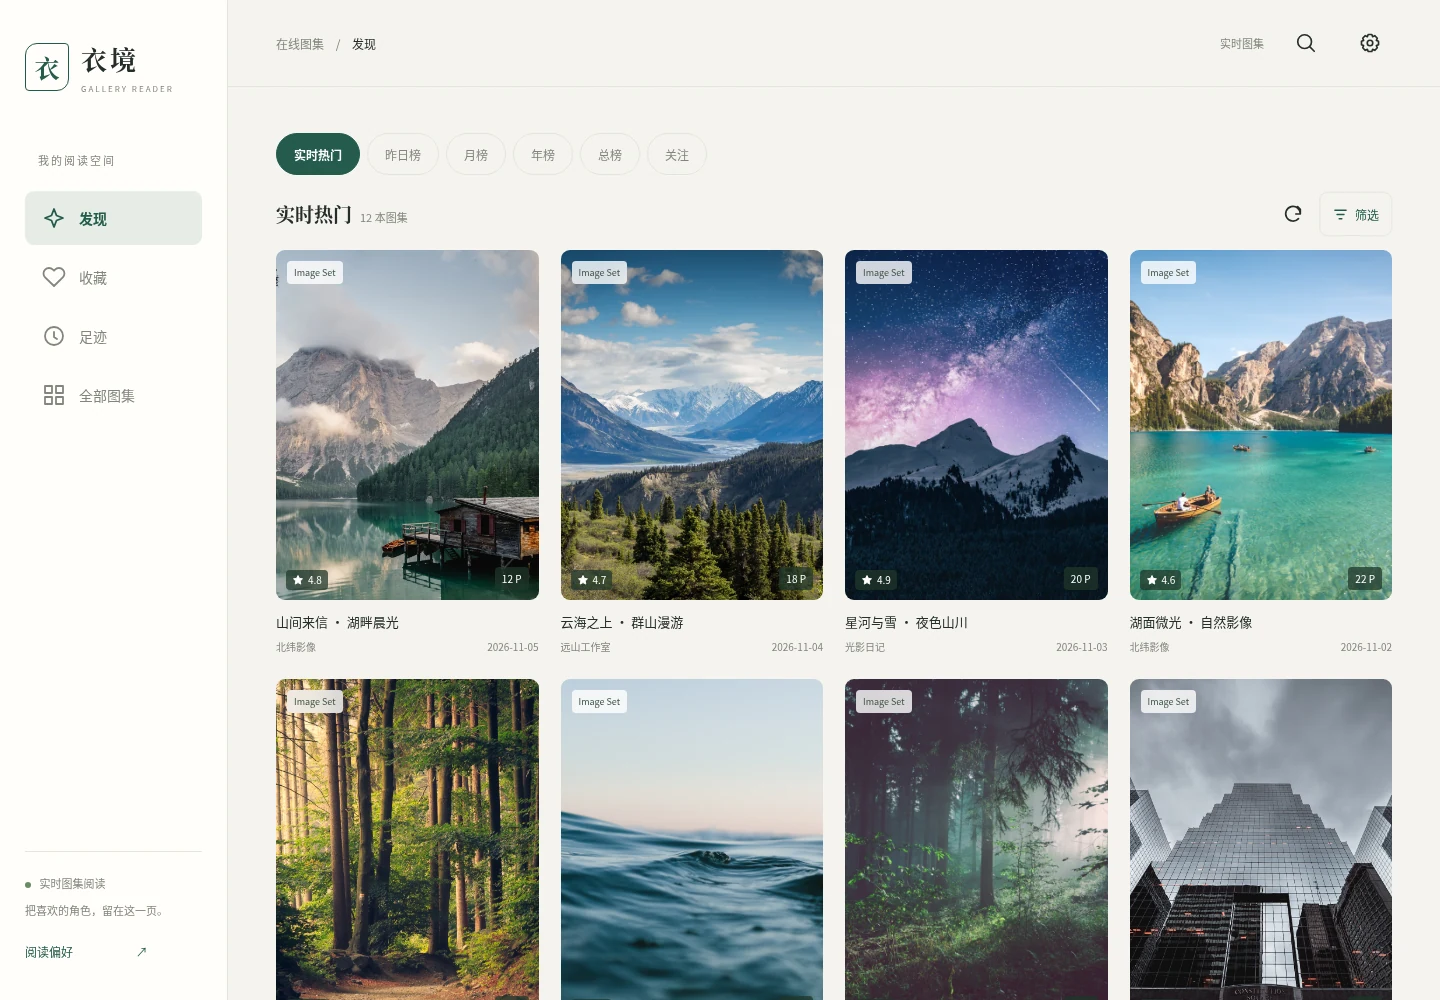
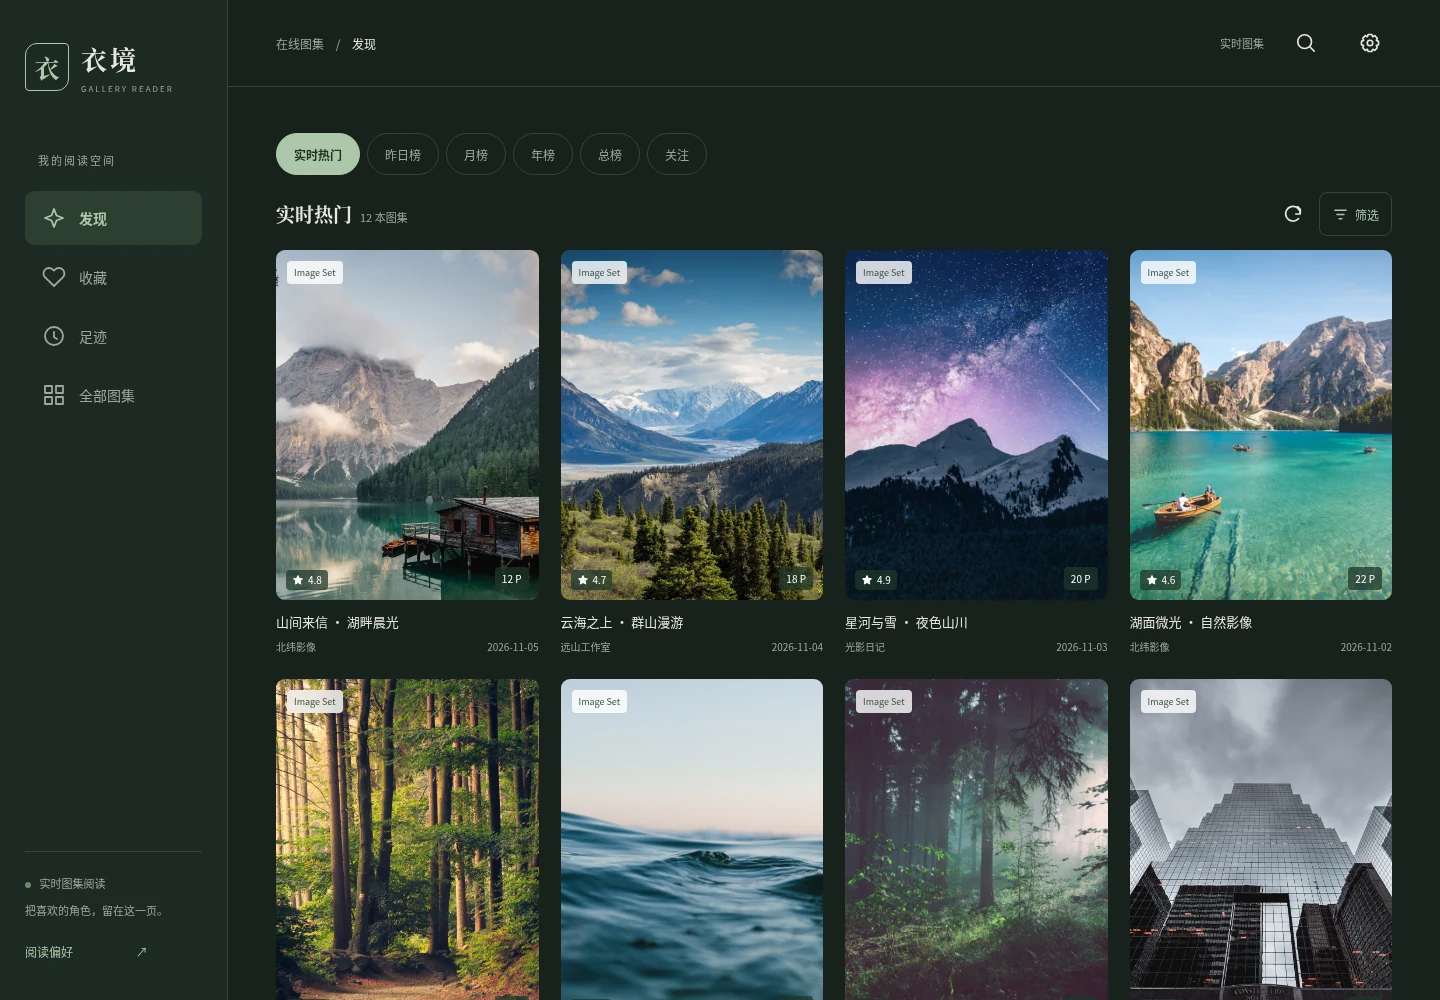
docs: use dark theme for desktop screenshot

diff --git a/docs/screenshots/README.md b/docs/screenshots/README.md
@@ -2,7 +2,7 @@
 
 这些截图通过浏览器运行项目实际界面生成，使用演示图集、作者、日期和评分，不包含真实账号或私人数据。
 
-- `desktop.webp`：桌面端浅色首页。
+- `desktop.webp`：桌面端暗色首页。
 - `mobile-home.webp`：移动端深色首页。
 - `mobile-album.webp`：图册详情与缩略图网格。
 - `mobile-photo.webp`：照片模式与底部缩略图。

diff --git a/README.md b/README.md
@@ -20,7 +20,7 @@
 
 桌面端支持侧栏导航与多列浏览，移动端提供底部导航和手势阅读；深浅色主题可在设置中切换。
 
-![桌面端浅色主题与图集浏览](docs/screenshots/desktop.webp)
+![桌面端暗色主题与图集浏览](docs/screenshots/desktop.webp)
 
 <table>
   <tr>
